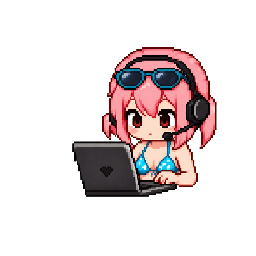
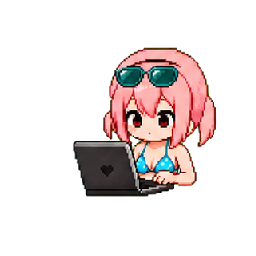
fix(pool-party-skin): 애니메이션 프레임 크기 정렬

Changed region(s): [[0.2812, 0.1562, 0.875, 0.7812], [0.4062, 0.625, 0.4375, 0.6562]]

diff --git a/CHANGELOG.md b/CHANGELOG.md
@@ -5,6 +5,12 @@ RunDev의 사용자에게 의미 있는 변경을 기록한다. 커밋 목록이
 
 ## Unreleased
 
+## 0.6.6 - 2026-08-12
+
+### Fixed
+
+- 수영장 파티 핑크 버튜버의 기본 애니메이션 프레임을 같은 체감 크기로 다시 정렬해, 화면 캐릭터와 트레이 아이콘이 프레임 전환 중 커졌다 작아졌다 하던 문제를 수정했습니다.
+
 ## 0.6.5 - 2026-08-12
 
 ### Added
